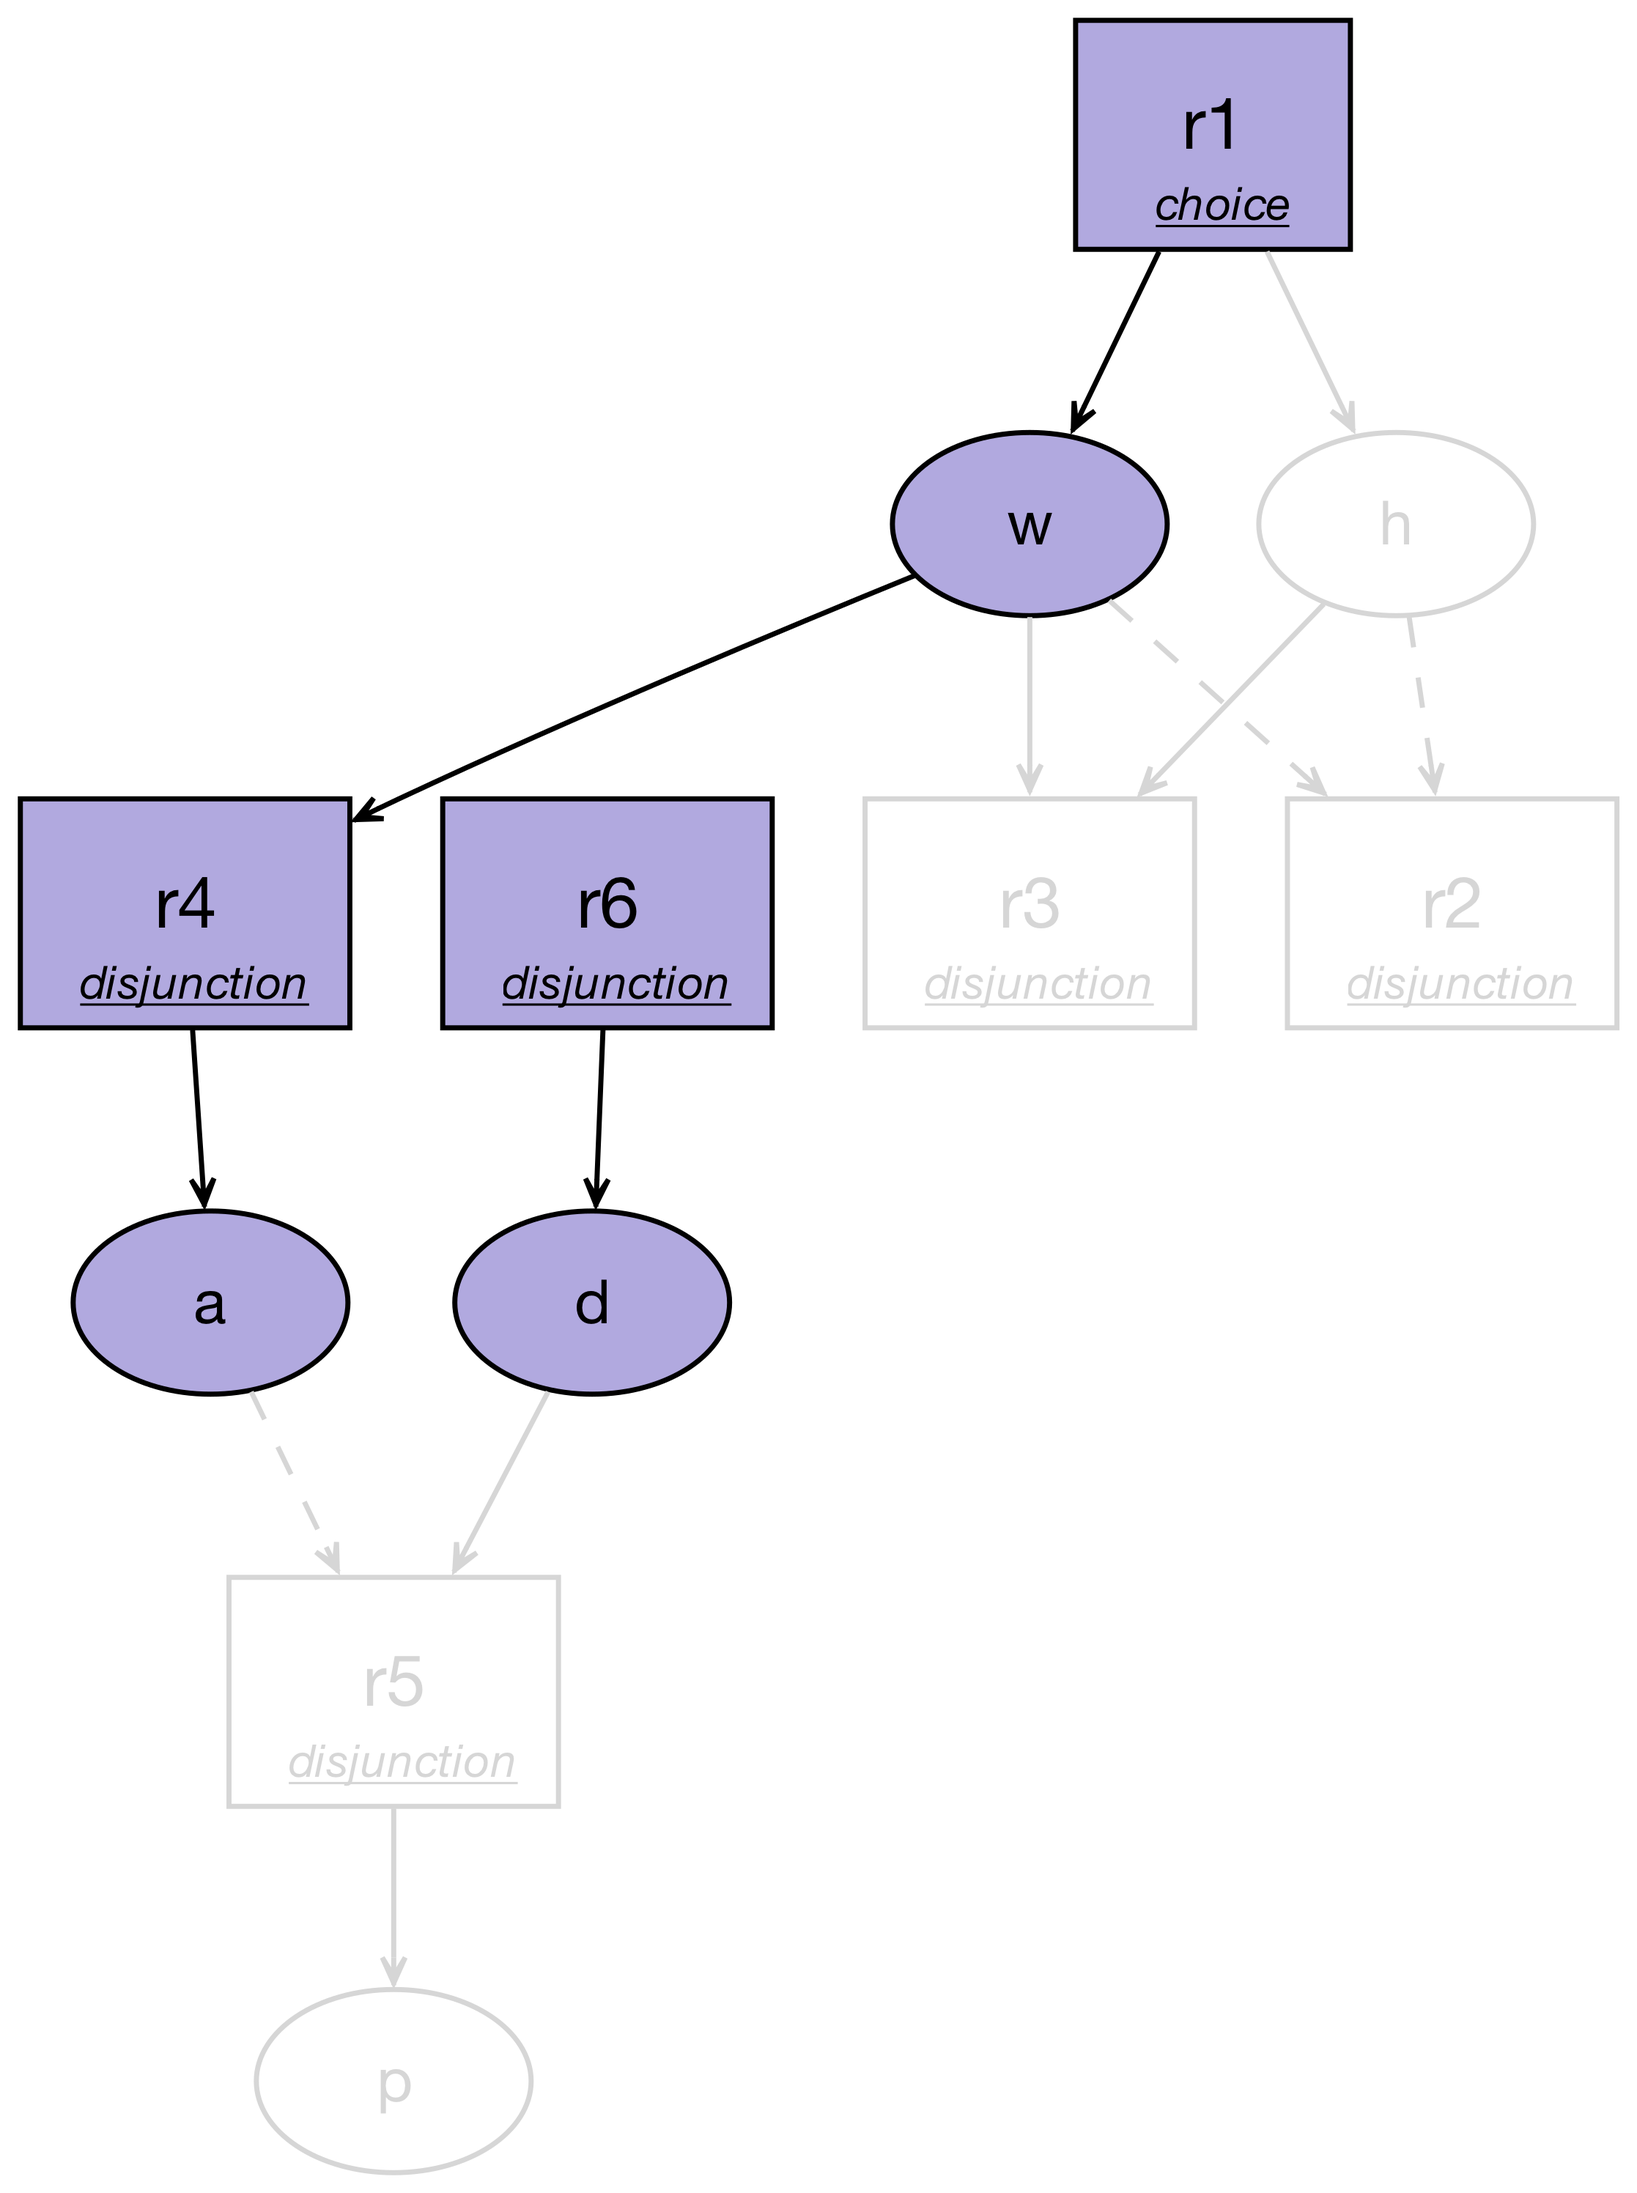
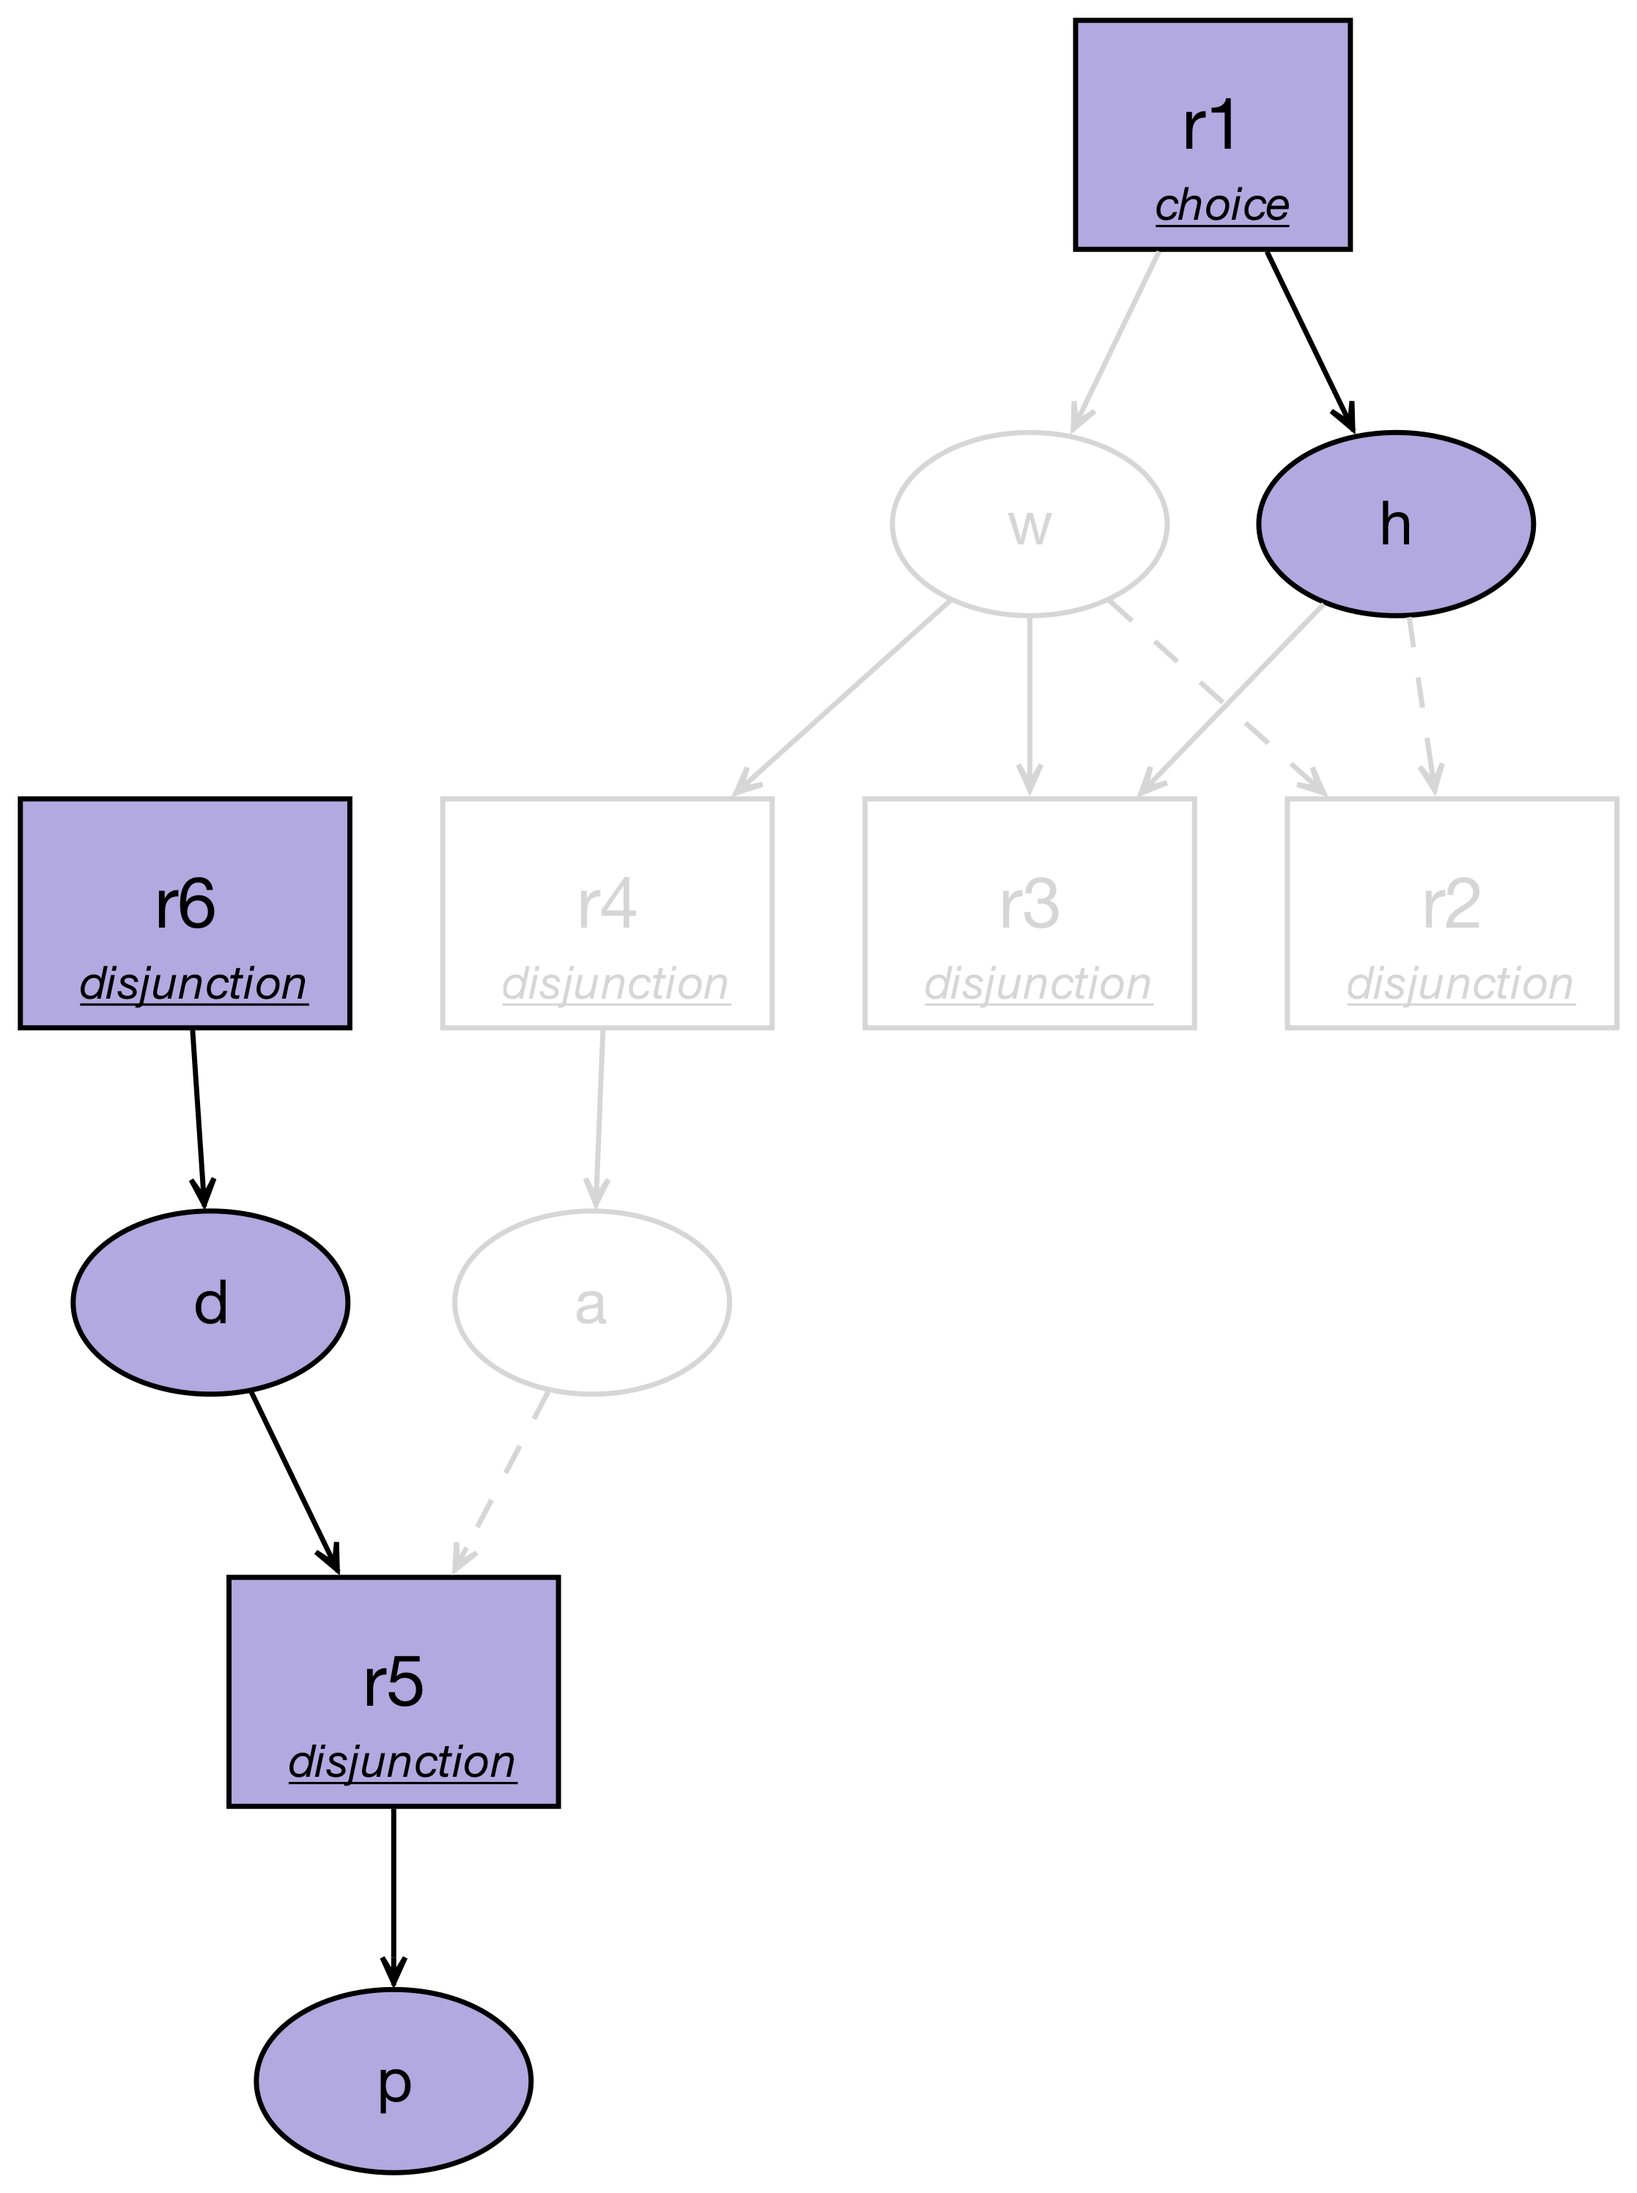
Showing the same model as in the contrast

diff --git a/approach.tex b/approach.tex
@@ -132,8 +132,9 @@ and $\Epos$ and $\Eneg$ are the sets of edges of the graph such that:
   %%
   \lstinputlisting[caption={Modified James Bond Example. Program $P1$}, language=clingos, label={lst:example1}]{encodings/example1.lp}
   %%
-  $P1$ has two models, namely $\m_1 = \{w, d, a\}$ and $\m_2 = \{h, d, p\}$,
-  where James is not poisoned in $\m_1$ since he is working and gets the antidote, and he is poisoned in $\m_2$ since he is on holiday and does not get the antidote.
+  $P1$ has two models, namely $\m_1 = \{h, d, p\}$ and $\m_2 = \{w, d, a\}$,
+  where James is not poisoned in $\m_2$ since he is working and gets the antidote,
+  and he is poisoned in $\m_1$ since he is on holiday and does not get the antidote.
   %
   Figure~\ref{fig:program-graph} shows the program graph corresponding to program $P1$.
   %
@@ -773,18 +774,18 @@ and $\Epos$ and $\Eneg$ are the sets of edges of the graph such that:
 \end{figure}
 
 \begin{example}[Contrastive Explanations for a query]\label{ex:example4}
-  Following our examples, let be $(P2_f, \m 2_f)$ be a foil in
+  Following our examples, let be $(P2_f, \m 1_f)$ be a foil in
   $\bestfoils(P2, \emptyset, \{r6, r7\}, \{ \neg p \}, \pdiff)$
   %
-  we can build a contrastive graph $\cg{P2}{P2_f}{\m 2}{\m 2_f}$.
+  we can build a contrastive graph $\cg{P2}{P2_f}{\m 1}{\m 1_f}$.
   The visualization of these graphs is shown in Figure~\ref{fig:contrastive}.
   %
-  The first contrastive graph (left) corresponds to the foil that removes rule $7$,
+  The first contrastive graph (left) corresponds to the foil that removes rule $r7$,
   and can be read as if James had not been forced to be on holiday,
   he would have been working, otherwise it would have violated the constraint of being either on holiday or working.
   If he had been working, he would have taken the antidote and therefore not been poisoned.
   %
-  The second contrastive graph (right) corresponds to the foil that removes rule $6$,
+  The second contrastive graph (right) corresponds to the foil that removes rule $r6$,
   and can be read as if James had not drunk the poison,
   he would not have been poisoned.
   % %

diff --git a/diagrams/workflow.tex b/diagrams/workflow.tex
@@ -14,7 +14,7 @@
 
 \node[ctl, right=10mm of inst] (meta-tools) {\textit{Reify}};
 
-\node[encoding, right=10mm of meta-tools] (reify) {\texttt{reified.lp}};
+\node[encoding, right=10mm of meta-tools, fill=styleyellow] (reify) {\texttt{reified.lp}};
 \node[encoding, below=of reify] (reifypg) {\texttt{reify-to-pg.lp}};
 \node[input-file, above=of reify] (dyn) {\texttt{dynamic-tags.lp}};
 
